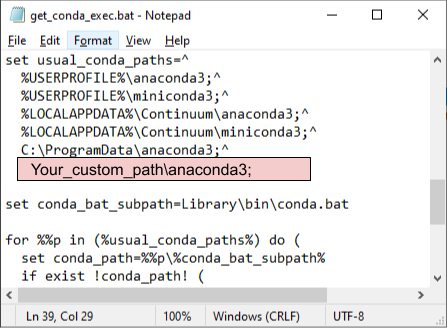
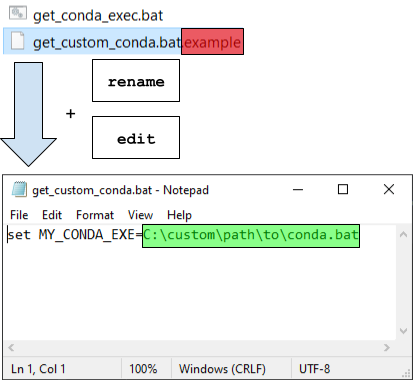
Update installation page

diff --git a/docs/content/installation.rst b/docs/content/installation.rst
@@ -8,20 +8,13 @@ Whether you are developer or an end-user, this page will help you get started wi
 Installation
 ------------
 
-1- Make sure that you have `Anaconda 3.7 <https://www.anaconda.com/download/>`_ or higher installed.
+1- Install Conda for Python 3.7 or higher. Two recommended options:
+    - `Miniconda <https://docs.conda.io/en/latest/miniconda.html#latest-miniconda-installer-links>`_: ~300 Mb of disk space
+    - `Anaconda <https://www.anaconda.com/download/>`_: ~2 Gb of disk space
 
 	.. figure:: ../images/Anaconda_Install.png
 	    :align: center
 	    :width: 200
-
-.. note:: The assumption is made that Anaconda will be installed in one
-   of the directories that are generally used (see below). If for some reason
-   Anaconda has been installed elsewhere, users will need to edit the
-   ``get_conda_exec.bat`` file in order to add their custom path:
-
-        .. figure:: ../images/Install_start_bat.png
-            :align: center
-            :width: 100%
 
 2- `Download the latest <https://github.com/MiraGeoscience/geoapps/archive/main.zip>`_ **geoapps** directory.
 
@@ -32,14 +25,28 @@ Installation
 	    :width: 50%
 
 
-4- Run ``Install_Update.bat``. The same batch file can be used to update the package dependencies.
+4- Run ``Install_Update.bat`` **(see notes below)**.
+
+  The same batch file can be used to update the package dependencies.
   A conda environment named ``geoapps`` will be created to prevent conflicts with other software that may rely on Python.
 
 	.. figure:: ../images/run_install.png
 	    :align: center
 	    :width: 50%
 
+.. note:: The assumption is made that Conda has been installed in one
+   of the default directories:
 
+    - %USERPROFILE%\\ana[mini]conda3\\
+    - %LOCALAPPDATA%\\Continuum\\ana[mini]conda3\\
+    - C:\\ProgramData\\ana[mini]conda3\\
+
+   If Conda gets installed in a different directory, users will need to add/edit a
+   ``get_custom_conda.bat`` file to add their custom path to the ``conda.bat`` file:
+
+        .. figure:: ../images/Install_start_bat.png
+            :align: center
+            :width: 75%
 
 Running the applications
 ------------------------
